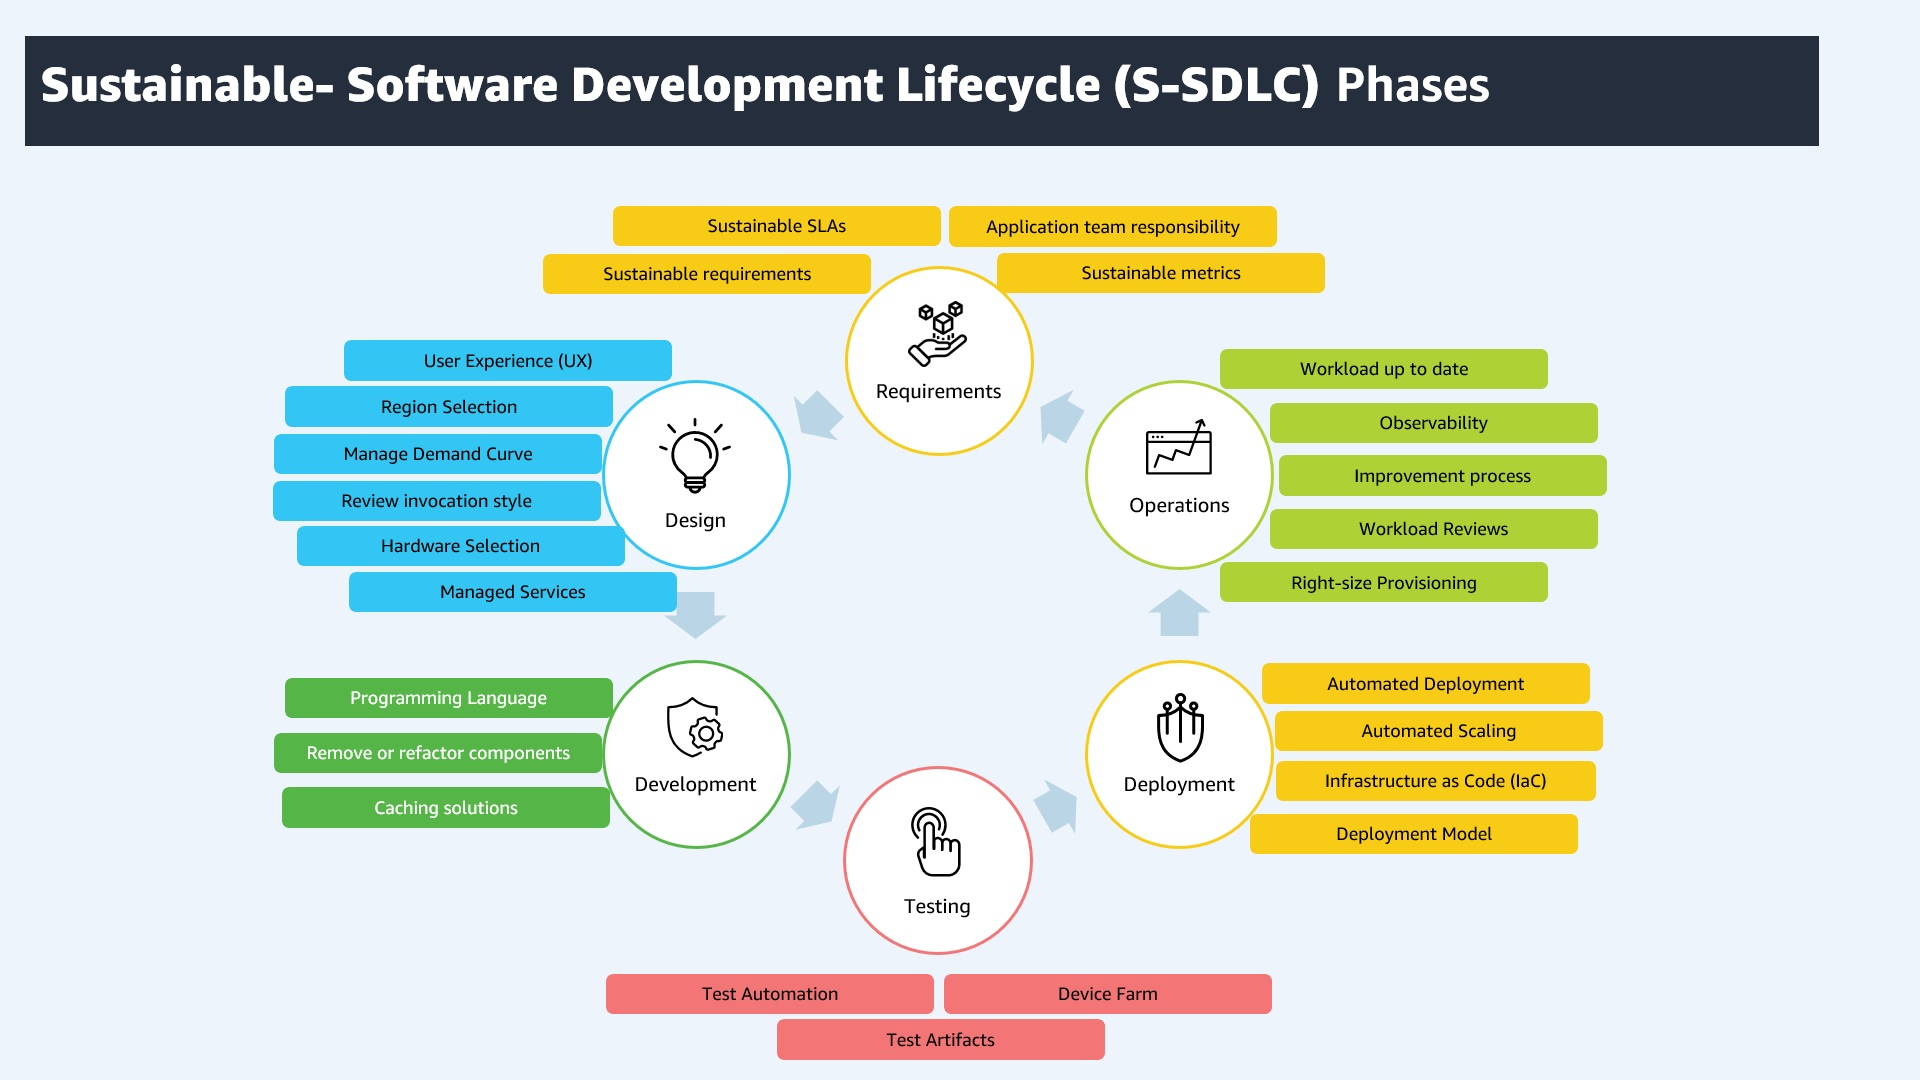
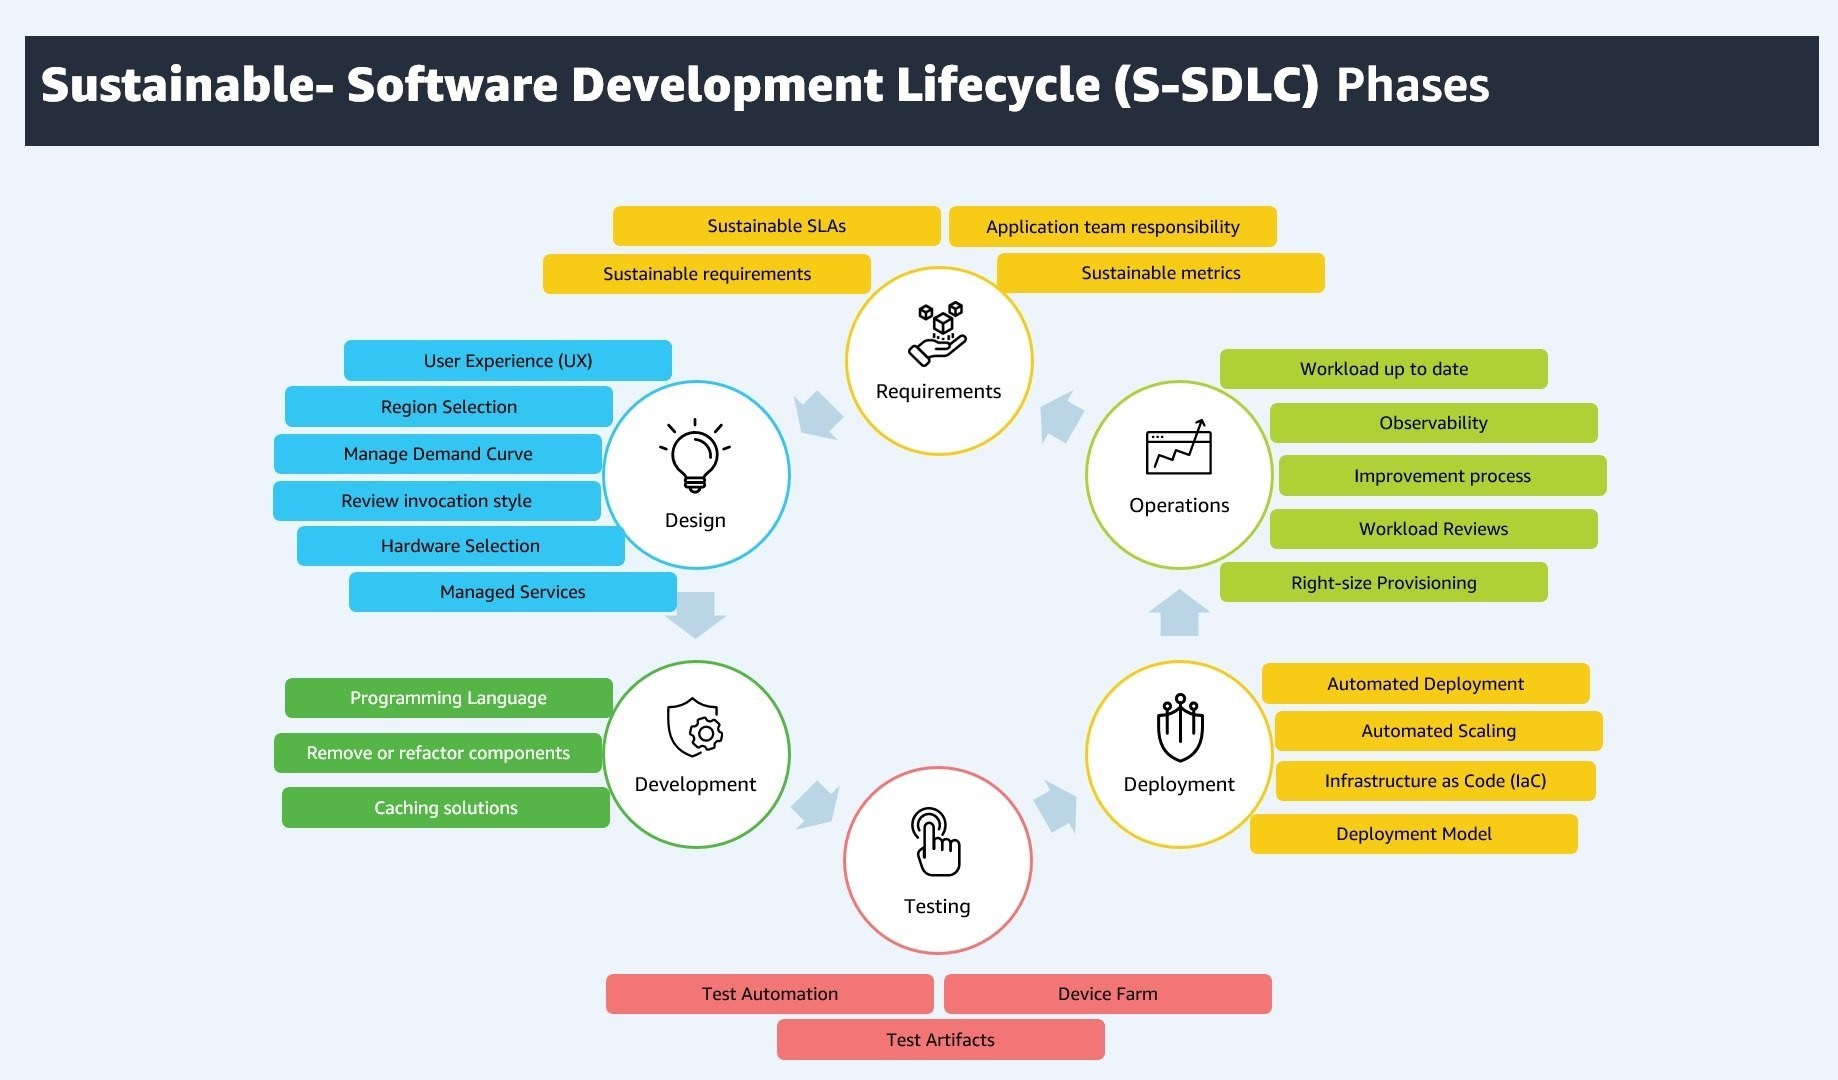
updated description and reduced image size

diff --git a/posts/sustainable-sdlc/index.md b/posts/sustainable-sdlc/index.md
@@ -1,6 +1,6 @@
 ---
 title: "Sustainable Software Development Life Cycle (S-SDLC)"
-description: Sustainability is no more a nice to have requirement but must have. Everyone needs to be aware of what sustainability is about and how their work impacts sustainability. There is general misconception that IT doesn't impact environment. This blog is aimed at Developer and Operations teams to provide them best practices that they should consider in their projects to ensure that their project is not contributing negatively to environment. 
+description: Sustainability is now a necessity, not just a nice addition. Developers and operations teams should implement best practices that ensure their projects positively impact the environment. 
 tags:
   - sustainability
   - devops
